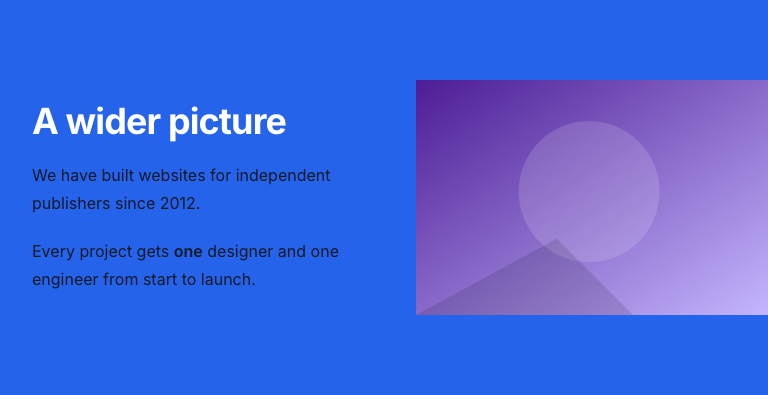
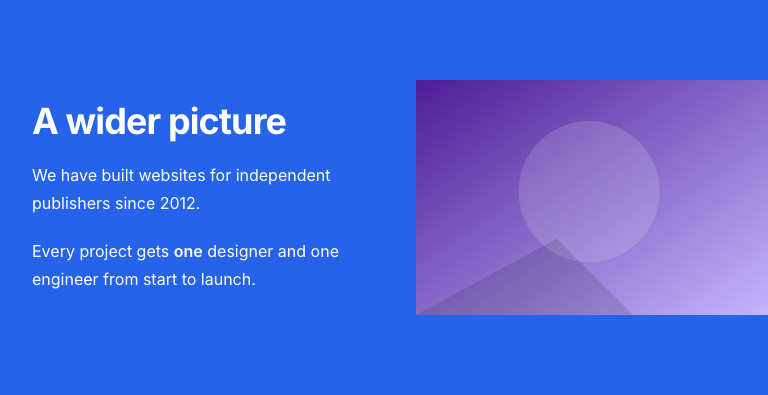
fix(astro-kit): Split's body follows its band's colours, and the kit visual fails body text under 4.5:1 on its band
Split's markdown body was prose prose-site with empty tone variants, so Typography's ink stayed on an inverse band (1:1, invisible) and on an accent or brand fill (3.43:1). A shared proseOnBand binds the body's text roles to the band's own colour and its quieter roles to the band's muted role; on the page's own surface both are the ink, as before. A link in the body on a fill takes the fill's ink. The kit visual checks every fixture's [data-kit-text] against the band it sits on (4.5:1, 3:1 large; an image or gradient ground is skipped). Starter and wp-demo copies of _shared/muted.ts synced.

diff --git a/packages/astro-kit/tests/split-body-tone.test.ts b/packages/astro-kit/tests/split-body-tone.test.ts
@@ -1,0 +1,27 @@
+import { readFile } from 'node:fs/promises'
+import { join } from 'node:path'
+import { describe, expect, it } from 'vitest'
+import { proseOnBand } from '../components/_shared/muted'
+
+const COMPONENTS = join(import.meta.dirname, '..', 'components')
+
+describe('a Split body on a band (prose follows the section, not the page)', () => {
+  it('binds Typography\'s text roles to the band\'s own colour and its quieter roles to the band\'s muted role', () => {
+    for (const role of ['body', 'headings', 'bold', 'quotes', 'code']) expect(proseOnBand, role).toContain(`[--tw-prose-${role}:currentColor]`)
+    for (const role of ['lead', 'counters', 'bullets', 'captions']) expect(proseOnBand, role).toContain(`[--tw-prose-${role}:var(--kit-muted,var(--color-ink-muted))]`)
+    expect(proseOnBand).not.toMatch(/opacity|prose-invert/)
+  })
+
+  it('gives the body that binding on every tone, and a link on a fill the fill\'s ink', async () => {
+    const split = await readFile(join(COMPONENTS, 'split', 'Split.astro'), 'utf8')
+    expect(split).toContain("import { muted, proseOnBand } from '../_shared/muted'")
+    expect(split).toContain('body: `prose prose-site max-w-none text-pretty ${proseOnBand}`,')
+    expect(split).toContain("accent: { body: '[--tw-prose-links:currentColor]' }, brand: { body: '[--tw-prose-links:currentColor]' }")
+  })
+
+  it('keeps the wp-demo fixture\'s copy of the shared helpers identical', async () => {
+    const kit = await readFile(join(COMPONENTS, '_shared', 'muted.ts'), 'utf8')
+    const demo = await readFile(join(import.meta.dirname, '..', '..', '..', 'templates', 'fixtures', 'wp-demo', 'src', 'components', 'kit', '_shared', 'muted.ts'), 'utf8')
+    expect(demo).toBe(kit)
+  })
+})

diff --git a/packages/astro-kit/components/_shared/muted.ts b/packages/astro-kit/components/_shared/muted.ts
@@ -17,3 +17,10 @@ export const mutedBrand = '[--kit-muted:var(--color-brand-ink)]'
 
 /** A light surface inside a band (a card, a form panel, a drawer): back to the page's muted role. */
 export const mutedReset = '[--kit-muted:initial]'
+
+/**
+ * A Typography body (`prose prose-site`) on a band: its text in the band's own colour and its quieter parts (lead,
+ * bullets, counters, captions) in the band's muted role. `prose-site` binds the page's ink, and on a dark band that is
+ * the band's own fill (1:1); on a filled band, ink under 4.5:1. On the page's own surface both are the ink, as before.
+ */
+export const proseOnBand = '[--tw-prose-body:currentColor] [--tw-prose-headings:currentColor] [--tw-prose-bold:currentColor] [--tw-prose-quotes:currentColor] [--tw-prose-code:currentColor] [--tw-prose-lead:var(--kit-muted,var(--color-ink-muted))] [--tw-prose-counters:var(--kit-muted,var(--color-ink-muted))] [--tw-prose-bullets:var(--kit-muted,var(--color-ink-muted))] [--tw-prose-captions:var(--kit-muted,var(--color-ink-muted))]'

diff --git a/templates/astro-starter/src/components/kit/_shared/muted.ts b/templates/astro-starter/src/components/kit/_shared/muted.ts
@@ -17,3 +17,10 @@ export const mutedBrand = '[--kit-muted:var(--color-brand-ink)]'
 
 /** A light surface inside a band (a card, a form panel, a drawer): back to the page's muted role. */
 export const mutedReset = '[--kit-muted:initial]'
+
+/**
+ * A Typography body (`prose prose-site`) on a band: its text in the band's own colour and its quieter parts (lead,
+ * bullets, counters, captions) in the band's muted role. `prose-site` binds the page's ink, and on a dark band that is
+ * the band's own fill (1:1); on a filled band, ink under 4.5:1. On the page's own surface both are the ink, as before.
+ */
+export const proseOnBand = '[--tw-prose-body:currentColor] [--tw-prose-headings:currentColor] [--tw-prose-bold:currentColor] [--tw-prose-quotes:currentColor] [--tw-prose-code:currentColor] [--tw-prose-lead:var(--kit-muted,var(--color-ink-muted))] [--tw-prose-counters:var(--kit-muted,var(--color-ink-muted))] [--tw-prose-bullets:var(--kit-muted,var(--color-ink-muted))] [--tw-prose-captions:var(--kit-muted,var(--color-ink-muted))]'

diff --git a/templates/fixtures/wp-demo/src/components/kit/_shared/muted.ts b/templates/fixtures/wp-demo/src/components/kit/_shared/muted.ts
@@ -17,3 +17,10 @@ export const mutedBrand = '[--kit-muted:var(--color-brand-ink)]'
 
 /** A light surface inside a band (a card, a form panel, a drawer): back to the page's muted role. */
 export const mutedReset = '[--kit-muted:initial]'
+
+/**
+ * A Typography body (`prose prose-site`) on a band: its text in the band's own colour and its quieter parts (lead,
+ * bullets, counters, captions) in the band's muted role. `prose-site` binds the page's ink, and on a dark band that is
+ * the band's own fill (1:1); on a filled band, ink under 4.5:1. On the page's own surface both are the ink, as before.
+ */
+export const proseOnBand = '[--tw-prose-body:currentColor] [--tw-prose-headings:currentColor] [--tw-prose-bold:currentColor] [--tw-prose-quotes:currentColor] [--tw-prose-code:currentColor] [--tw-prose-lead:var(--kit-muted,var(--color-ink-muted))] [--tw-prose-counters:var(--kit-muted,var(--color-ink-muted))] [--tw-prose-bullets:var(--kit-muted,var(--color-ink-muted))] [--tw-prose-captions:var(--kit-muted,var(--color-ink-muted))]'

diff --git a/.changeset/split-body-tone.md b/.changeset/split-body-tone.md
@@ -1,0 +1,5 @@
+---
+"@contentrain/astro-kit": patch
+---
+
+Split's body follows its band: on an inverse, accent or brand band (or a measured dark fill) the markdown body is drawn in the band's own text colour and muted role, as its heading is. Before, it kept the page's ink, so on an inverse band it was invisible (1:1) and on a fill it was under 4.5:1. A link in the body on a fill is drawn in the fill's ink. On the page's own surface nothing changes. The kit visual now fails a body text under 4.5:1 (3:1 large) on its band.
